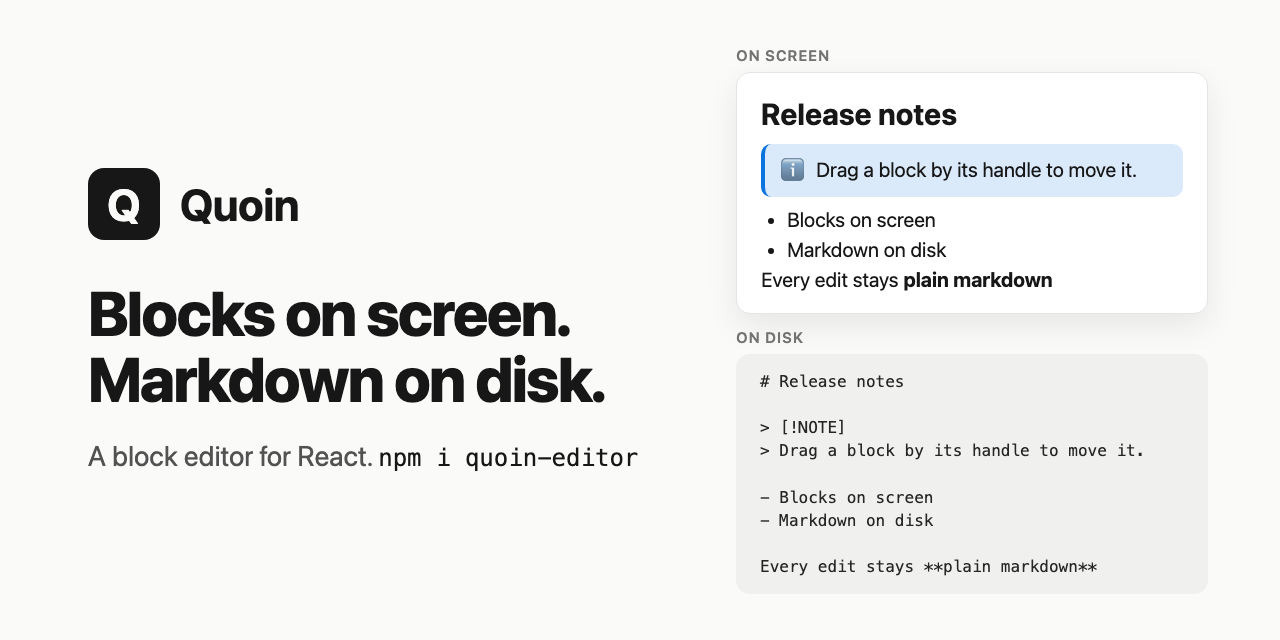
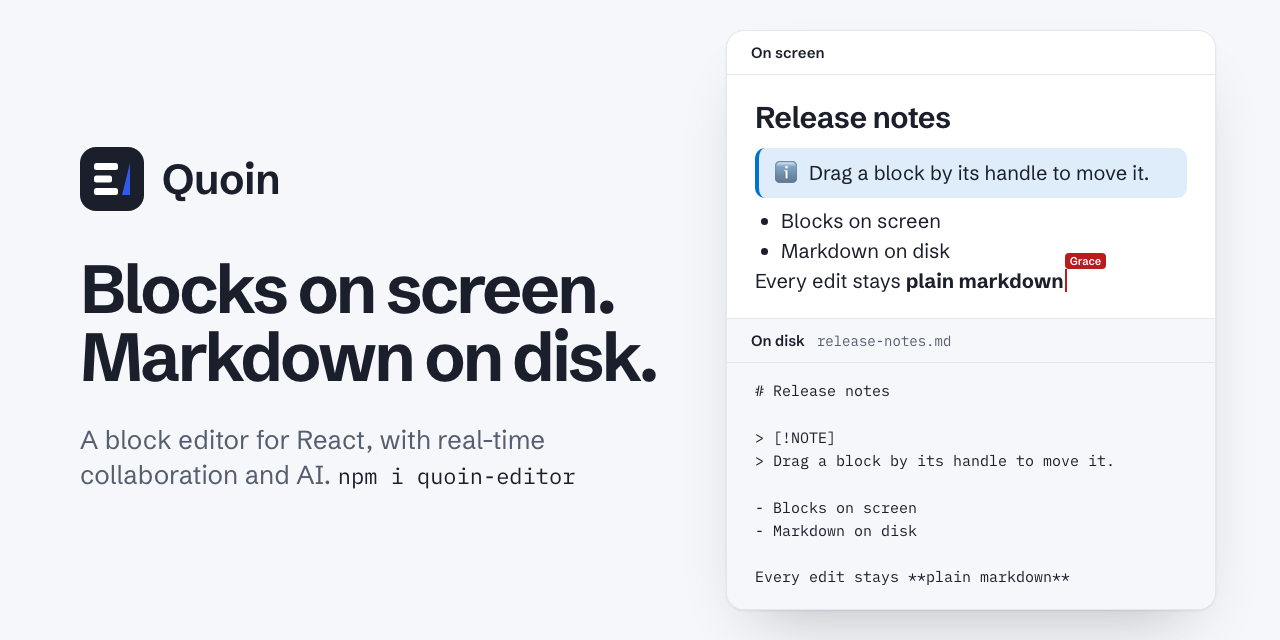
docs(site): record the hero, collaboration and AI clips on the new look
The three clips and the social preview are drawn in the slate and cobalt
theme with soft edges. The social preview uses the site's typefaces and
mark, names collaboration and AI, and shows a collaborator's caret.

diff --git a/demo/og.html b/demo/og.html
@@ -5,71 +5,104 @@
     <meta name="robots" content="noindex" />
     <title>Quoin social preview</title>
     <style>
+      @font-face {
+        font-family: "Schibsted Grotesk";
+        font-weight: 400 900;
+        src: url("node_modules/@fontsource-variable/schibsted-grotesk/files/schibsted-grotesk-latin-wght-normal.woff2") format("woff2");
+      }
+      @font-face {
+        font-family: "IBM Plex Mono";
+        font-weight: 400;
+        src: url("node_modules/@fontsource/ibm-plex-mono/files/ibm-plex-mono-latin-400-normal.woff2") format("woff2");
+      }
+      :root {
+        --background: oklch(1 0 0);
+        --foreground: oklch(0.24 0.024 267);
+        --muted: oklch(0.975 0.005 258);
+        --muted-foreground: oklch(0.48 0.029 263);
+        --border: oklch(0.927 0.01 262);
+        --ring: oklch(0.533 0.221 266);
+        --info: oklch(0.55 0.17 250);
+        --peer: #b91c1c;
+      }
       * { box-sizing: border-box; margin: 0; }
       html, body { width: 1280px; height: 640px; }
       body {
         display: grid;
-        grid-template-columns: 600px 1fr;
-        gap: 48px;
+        grid-template-columns: 590px 1fr;
+        gap: 56px;
         align-items: center;
-        padding: 0 72px 0 88px;
-        background: #fafaf9;
-        color: #171717;
-        font-family: ui-sans-serif, system-ui, -apple-system, "Segoe UI", Roboto, "Helvetica Neue", Arial, sans-serif;
+        padding: 0 64px 0 80px;
+        background: var(--muted);
+        color: var(--foreground);
+        font-family: "Schibsted Grotesk", ui-sans-serif, system-ui, sans-serif;
+        -webkit-font-smoothing: antialiased;
       }
-      .name { display: flex; align-items: center; gap: 20px; margin-bottom: 40px; }
-      .mark {
-        display: grid; place-items: center; width: 72px; height: 72px; border-radius: 16px;
-        background: #171717; color: #fafaf9; font-size: 44px; font-weight: 700;
+      .name { display: flex; align-items: center; gap: 18px; margin-bottom: 44px; }
+      .mark { width: 64px; height: 64px; }
+      .mark .frame { fill: var(--foreground); }
+      .mark .type { fill: var(--background); }
+      .mark .wedge { fill: var(--ring); }
+      h1 { font-size: 42px; font-weight: 650; letter-spacing: -0.01em; }
+      .tagline { font-size: 68px; line-height: 1; font-weight: 680; letter-spacing: -0.045em; }
+      .sub { margin-top: 32px; font-size: 26px; line-height: 1.35; color: var(--muted-foreground); }
+      .sub code { font-family: "IBM Plex Mono", ui-monospace, monospace; font-size: 22px; color: var(--foreground); }
+      .window {
+        border: 1px solid var(--border);
+        border-radius: 18px;
+        background: var(--background);
+        box-shadow: 0 1px 2px oklch(0.24 0.024 267 / 8%), 0 32px 64px -32px oklch(0.24 0.024 267 / 30%);
+        overflow: hidden;
       }
-      h1 { font-size: 44px; font-weight: 700; letter-spacing: -0.01em; }
-      .tagline { font-size: 62px; line-height: 1.06; font-weight: 800; letter-spacing: -0.025em; }
-      .sub { margin-top: 28px; font-size: 28px; color: #525252; }
-      .sub code { font-family: ui-monospace, Menlo, Consolas, monospace; font-size: 24px; color: #171717; }
-      .excerpt { display: grid; gap: 14px; }
-      .label { font-size: 15px; font-weight: 600; letter-spacing: 0.06em; text-transform: uppercase; color: #737373; margin-bottom: 8px; }
-      .screen {
-        padding: 18px 24px; border: 1px solid #e5e5e5; border-radius: 14px; background: #fff;
-        box-shadow: 0 12px 32px rgb(0 0 0 / 0.08); font-size: 20px; line-height: 1.5;
-      }
-      .screen h2 { font-size: 30px; font-weight: 700; margin-bottom: 8px; }
+      .bar { display: flex; align-items: baseline; gap: 12px; padding: 12px 24px; border-bottom: 1px solid var(--border); font-size: 15px; font-weight: 600; }
+      .file { font-family: "IBM Plex Mono", ui-monospace, monospace; font-size: 14px; font-weight: 400; color: var(--muted-foreground); }
+      .screen { padding: 20px 28px 22px; font-size: 20px; line-height: 1.5; }
+      .screen h2 { font-size: 30px; font-weight: 650; letter-spacing: -0.02em; margin-bottom: 8px; }
       .callout {
-        display: flex; gap: 12px; align-items: center; margin: 6px 0 8px; padding: 10px 16px;
-        border-left: 4px solid #0b74de; border-radius: 10px; background: #dbeafb;
+        display: flex; gap: 12px; align-items: center; margin: 4px 0 8px; padding: 10px 16px;
+        border-left: 4px solid var(--info); border-radius: 10px; background: color-mix(in oklch, var(--info) 14%, white);
       }
-      .callout span { font-size: 22px; }
       .screen ul { padding-left: 26px; }
-      .disk {
-        padding: 16px 24px; border-radius: 14px; background: #f0f0ef; color: #262626;
-        font-family: ui-monospace, Menlo, Consolas, monospace; font-size: 16px; line-height: 1.45; white-space: pre;
+      .caret { position: relative; display: inline-block; width: 2px; height: 1.15em; margin-left: 1px; vertical-align: -0.2em; background: var(--peer); }
+      .caret::before {
+        content: "Grace"; position: absolute; left: 0; bottom: 100%; padding: 1px 5px; border-radius: 4px;
+        background: var(--peer); color: white; font-size: 11px; font-weight: 600; line-height: 1.3;
+      }
+      .disk { border-top: 1px solid var(--border); background: var(--muted); }
+      .disk pre {
+        padding: 16px 28px 20px; font-family: "IBM Plex Mono", ui-monospace, monospace; font-size: 15px; line-height: 1.55; white-space: pre;
       }
     </style>
   </head>
   <body>
     <main>
       <div class="name">
-        <div class="mark" aria-hidden="true">Q</div>
+        <svg class="mark" viewBox="0 0 32 32" aria-hidden="true">
+          <rect class="frame" width="32" height="32" rx="8" />
+          <rect class="type" x="7" y="8" width="12" height="3.5" rx="1.25" />
+          <rect class="type" x="7" y="14.25" width="9" height="3.5" rx="1.25" />
+          <rect class="type" x="7" y="20.5" width="12" height="3.5" rx="1.25" />
+          <path class="wedge" d="M21 24 25 8v16Z" />
+        </svg>
         <h1>Quoin</h1>
       </div>
       <p class="tagline">Blocks on screen. Markdown on disk.</p>
-      <p class="sub">A block editor for React. <code>npm i quoin-editor</code></p>
+      <p class="sub">A block editor for React, with real-time collaboration and AI. <code>npm i quoin-editor</code></p>
     </main>
-    <section class="excerpt" data-og-excerpt aria-label="An editor excerpt and the markdown it stores">
-      <div>
-        <p class="label">On screen</p>
-        <div class="screen">
-          <h2>Release notes</h2>
-          <div class="callout"><span aria-hidden="true">&#x2139;&#xfe0f;</span>Drag a block by its handle to move it.</div>
-          <ul>
-            <li>Blocks on screen</li>
-            <li>Markdown on disk</li>
-          </ul>
-          <p>Every edit stays <strong>plain markdown</strong></p>
-        </div>
+    <section class="window" data-og-excerpt aria-label="An editor excerpt and the markdown it stores">
+      <div class="bar">On screen</div>
+      <div class="screen">
+        <h2>Release notes</h2>
+        <div class="callout"><span aria-hidden="true">&#x2139;&#xfe0f;</span>Drag a block by its handle to move it.</div>
+        <ul>
+          <li>Blocks on screen</li>
+          <li>Markdown on disk</li>
+        </ul>
+        <p>Every edit stays <strong>plain markdown</strong><span class="caret" aria-hidden="true"></span></p>
       </div>
-      <div>
-        <p class="label">On disk</p>
-        <div class="disk"># Release notes
+      <div class="disk">
+        <div class="bar">On disk <span class="file">release-notes.md</span></div>
+        <pre># Release notes
 
 &gt; [!NOTE]
 &gt; Drag a block by its handle to move it.
@@ -77,7 +110,7 @@
 - Blocks on screen
 - Markdown on disk
 
-Every edit stays **plain markdown**</div>
+Every edit stays **plain markdown**</pre>
       </div>
     </section>
   </body>
